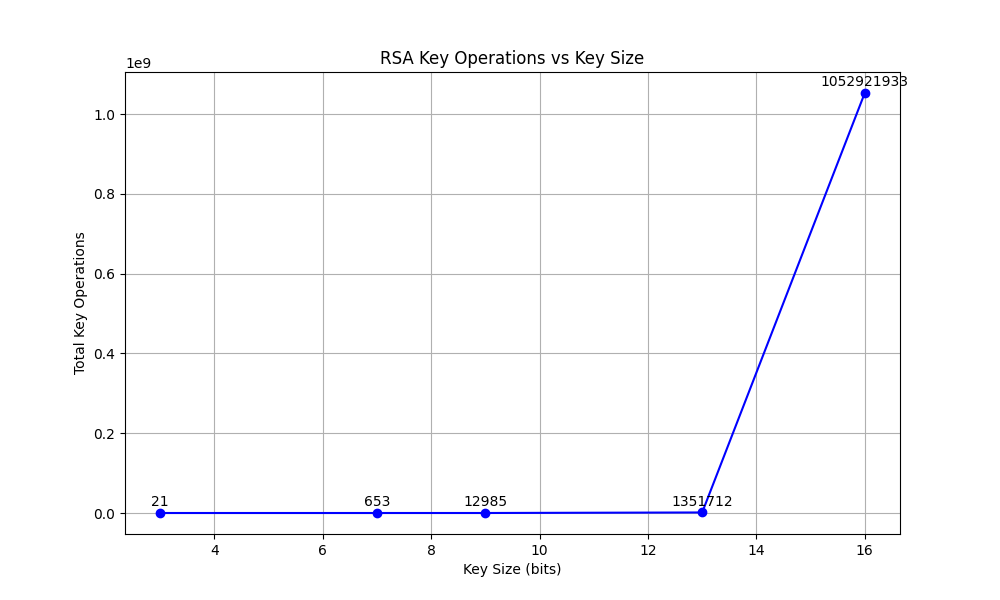
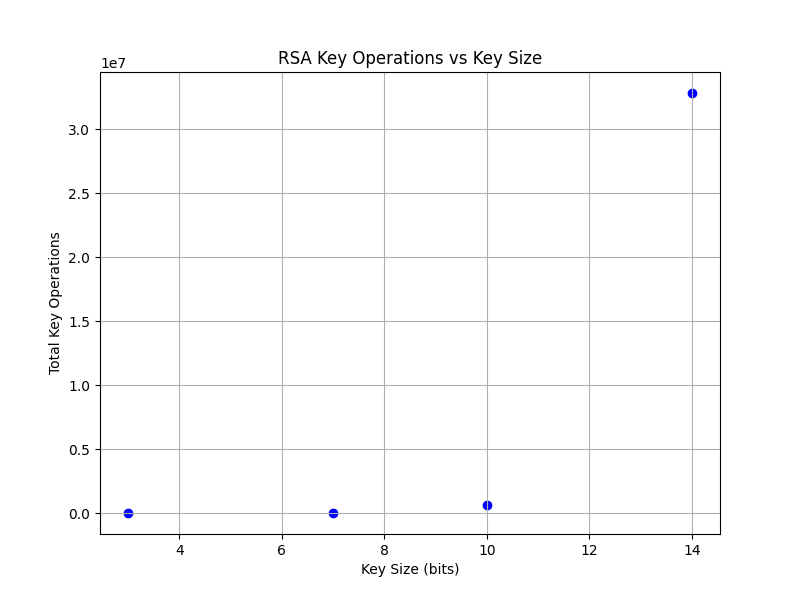
Added the Rabin-Miller Test

diff --git a/test.py b/test.py
@@ -1,22 +1,35 @@
-import random 
+import random
 import math
- 
-def is_prime(n): #checks whether a number is prime or not
-    if n<2:
+
+def is_prime(n, k=5):
+    """Rabin-Miller primality test."""
+    if n <= 1:
         return False
-    
-    for i in range(2, n//2 +1):
-        if n%i==0:
+    if n <= 3:
+        return True
+    if n % 2 == 0:
+        return False
+
+    # Write n - 1 as (2^s) * d
+    s = 0
+    d = n - 1
+    while d % 2 == 0:
+        d //= 2
+        s += 1
+
+    # Witness loop
+    for _ in range(k):
+        a = random.randint(2, n - 1)
+        x = pow(a, d, n)
+        if x == 1 or x == n - 1:
+            continue
+        for _ in range(s - 1):
+            x = pow(x, 2, n)
+            if x == n - 1:
+                break
+        else:
             return False
-        
-    return True 
-
-def generate_prime(min_value, max_value): #generates prime number between a range
-    prime=random.randint(min_value, max_value)
-    while not is_prime(prime): #if the number generated is not prime, redo it again
-        prime=random.randint(min_value, max_value)
-
-    return prime
+    return True
 
 def mod_inverse(e, phi): #finds the mod inverse 
     for d in range(3, phi):
@@ -24,11 +37,18 @@ def mod_inverse(e, phi): #finds the mod inverse
             return d 
     
     raise ValueError("Mod_Inverse does not exist")
-min_value = 10000
-max_value = 50000
-p,q = generate_prime(min_value, max_value), generate_prime(min_value, max_value) 
-#generates 2 prime numbers P and Q
 
+def generate_prime(min_value, max_value):
+    """Generate a prime number using Rabin-Miller test."""
+    while True:
+        prime = random.randint(min_value, max_value)
+        if is_prime(prime):
+            return prime
+
+# Example usage:
+min_value = 1000
+max_value = 5000
+p,q = generate_prime(min_value, max_value), generate_prime(min_value, max_value) 
 while p==q: #if both the prime numbers generated are same, then generate again
     q = generate_prime(1000, 5000)
 
@@ -67,4 +87,3 @@ message_enc = [pow(ch, d, n) for ch in cipher] #this is the decrypted string, i.
 decr = "".join(chr(ch) for ch in message_enc) #this is the actual message after being converted from ASCII
 
 print("\n\n\n\nDecrypted Message: ", decr)
-

diff --git a/alog_comp_rabin_miller.py b/alog_comp_rabin_miller.py
@@ -9,15 +9,35 @@ key_operations = {
     'Total Key Operations': []
 }
 
-def is_prime(n): 
-    if n < 2:
+def is_prime(n, k=5):
+    """Rabin-Miller primality test."""
+    if n <= 1:
         return False
-    
-    for i in range(2, n//2 + 1):
-        if n % i == 0:
+    if n <= 3:
+        return True
+    if n % 2 == 0:
+        return False
+
+    # Write n - 1 as (2^s) * d
+    s = 0
+    d = n - 1
+    while d % 2 == 0:
+        d //= 2
+        s += 1
+
+    # Witness loop
+    for _ in range(k):
+        a = random.randint(2, n - 1)
+        x = pow(a, d, n)
+        if x == 1 or x == n - 1:
+            continue
+        for _ in range(s - 1):
+            x = pow(x, 2, n)
+            if x == n - 1:
+                break
+        else:
             return False
-        
-    return True 
+    return True
 
 def generate_prime(min_value, max_value): 
     prime_generation_count = 0
@@ -84,7 +104,7 @@ plt.ylabel('Total Key Operations')
 plt.grid(True)
 
 # Save the plot as an image
-plt.savefig('rsa_key_operations_plot.png')
+plt.savefig('rsa_key_operations_plot_new.png')
 
 # Show the plot
 plt.show()
